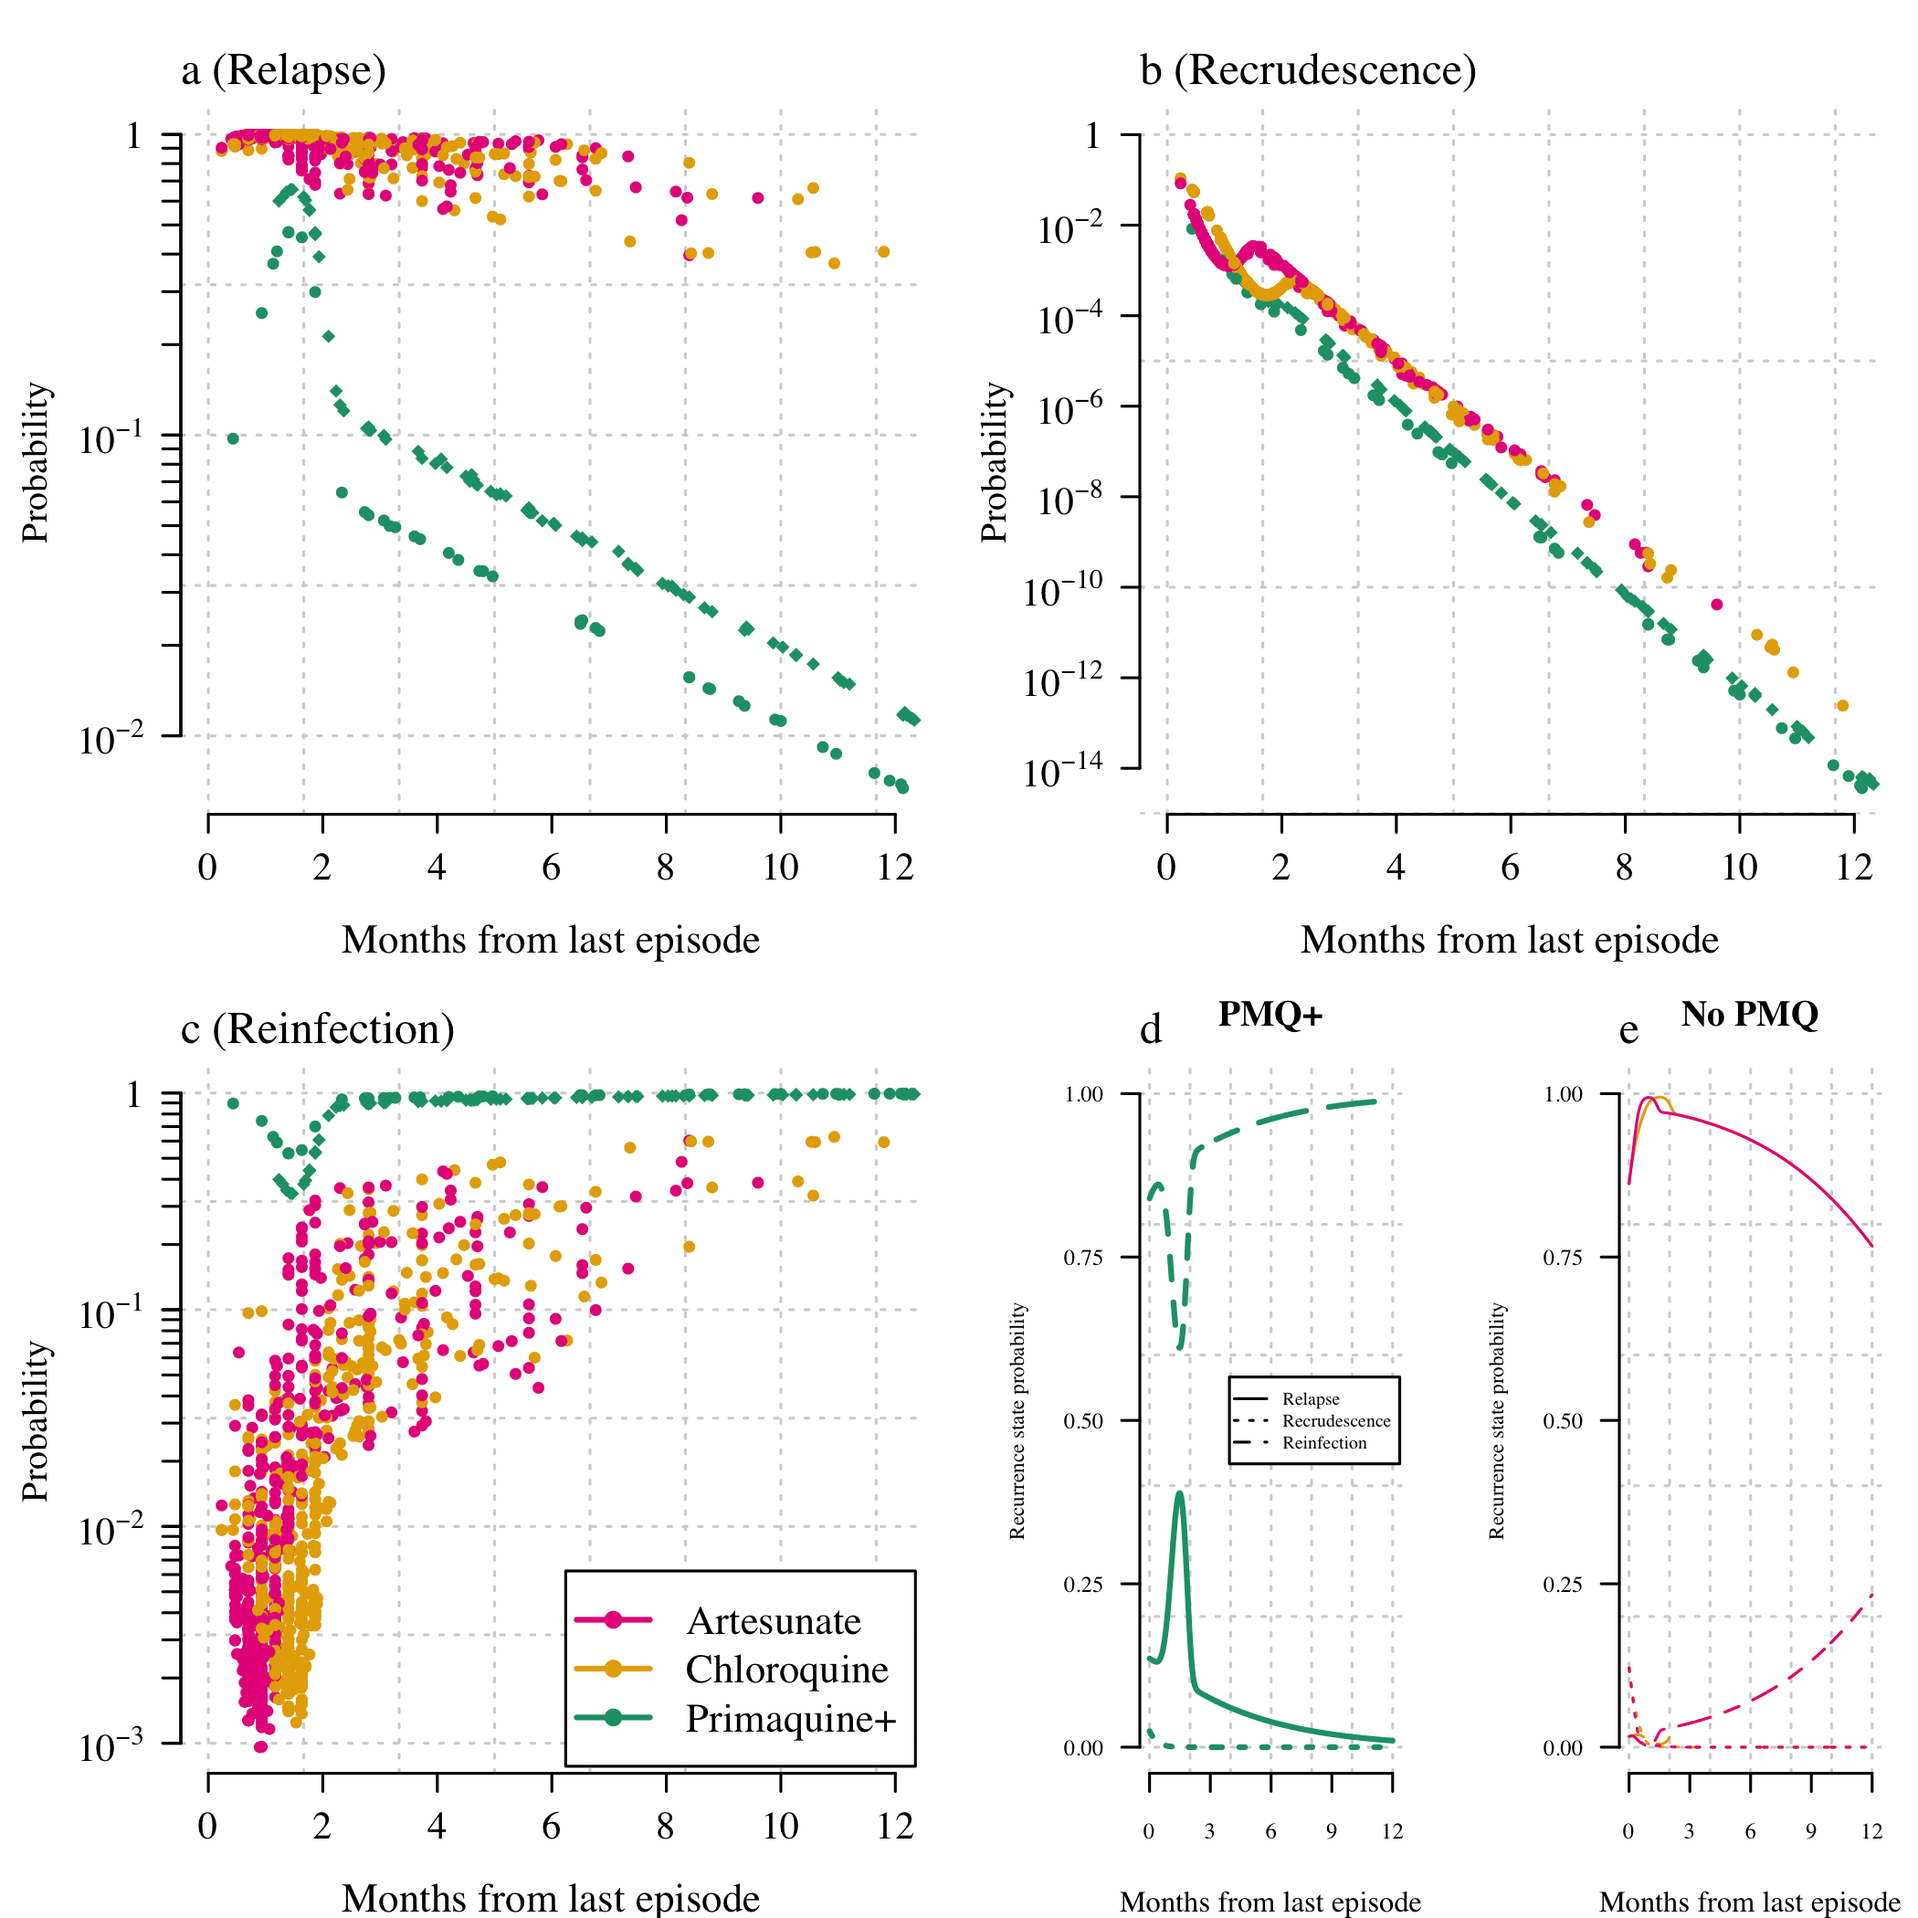
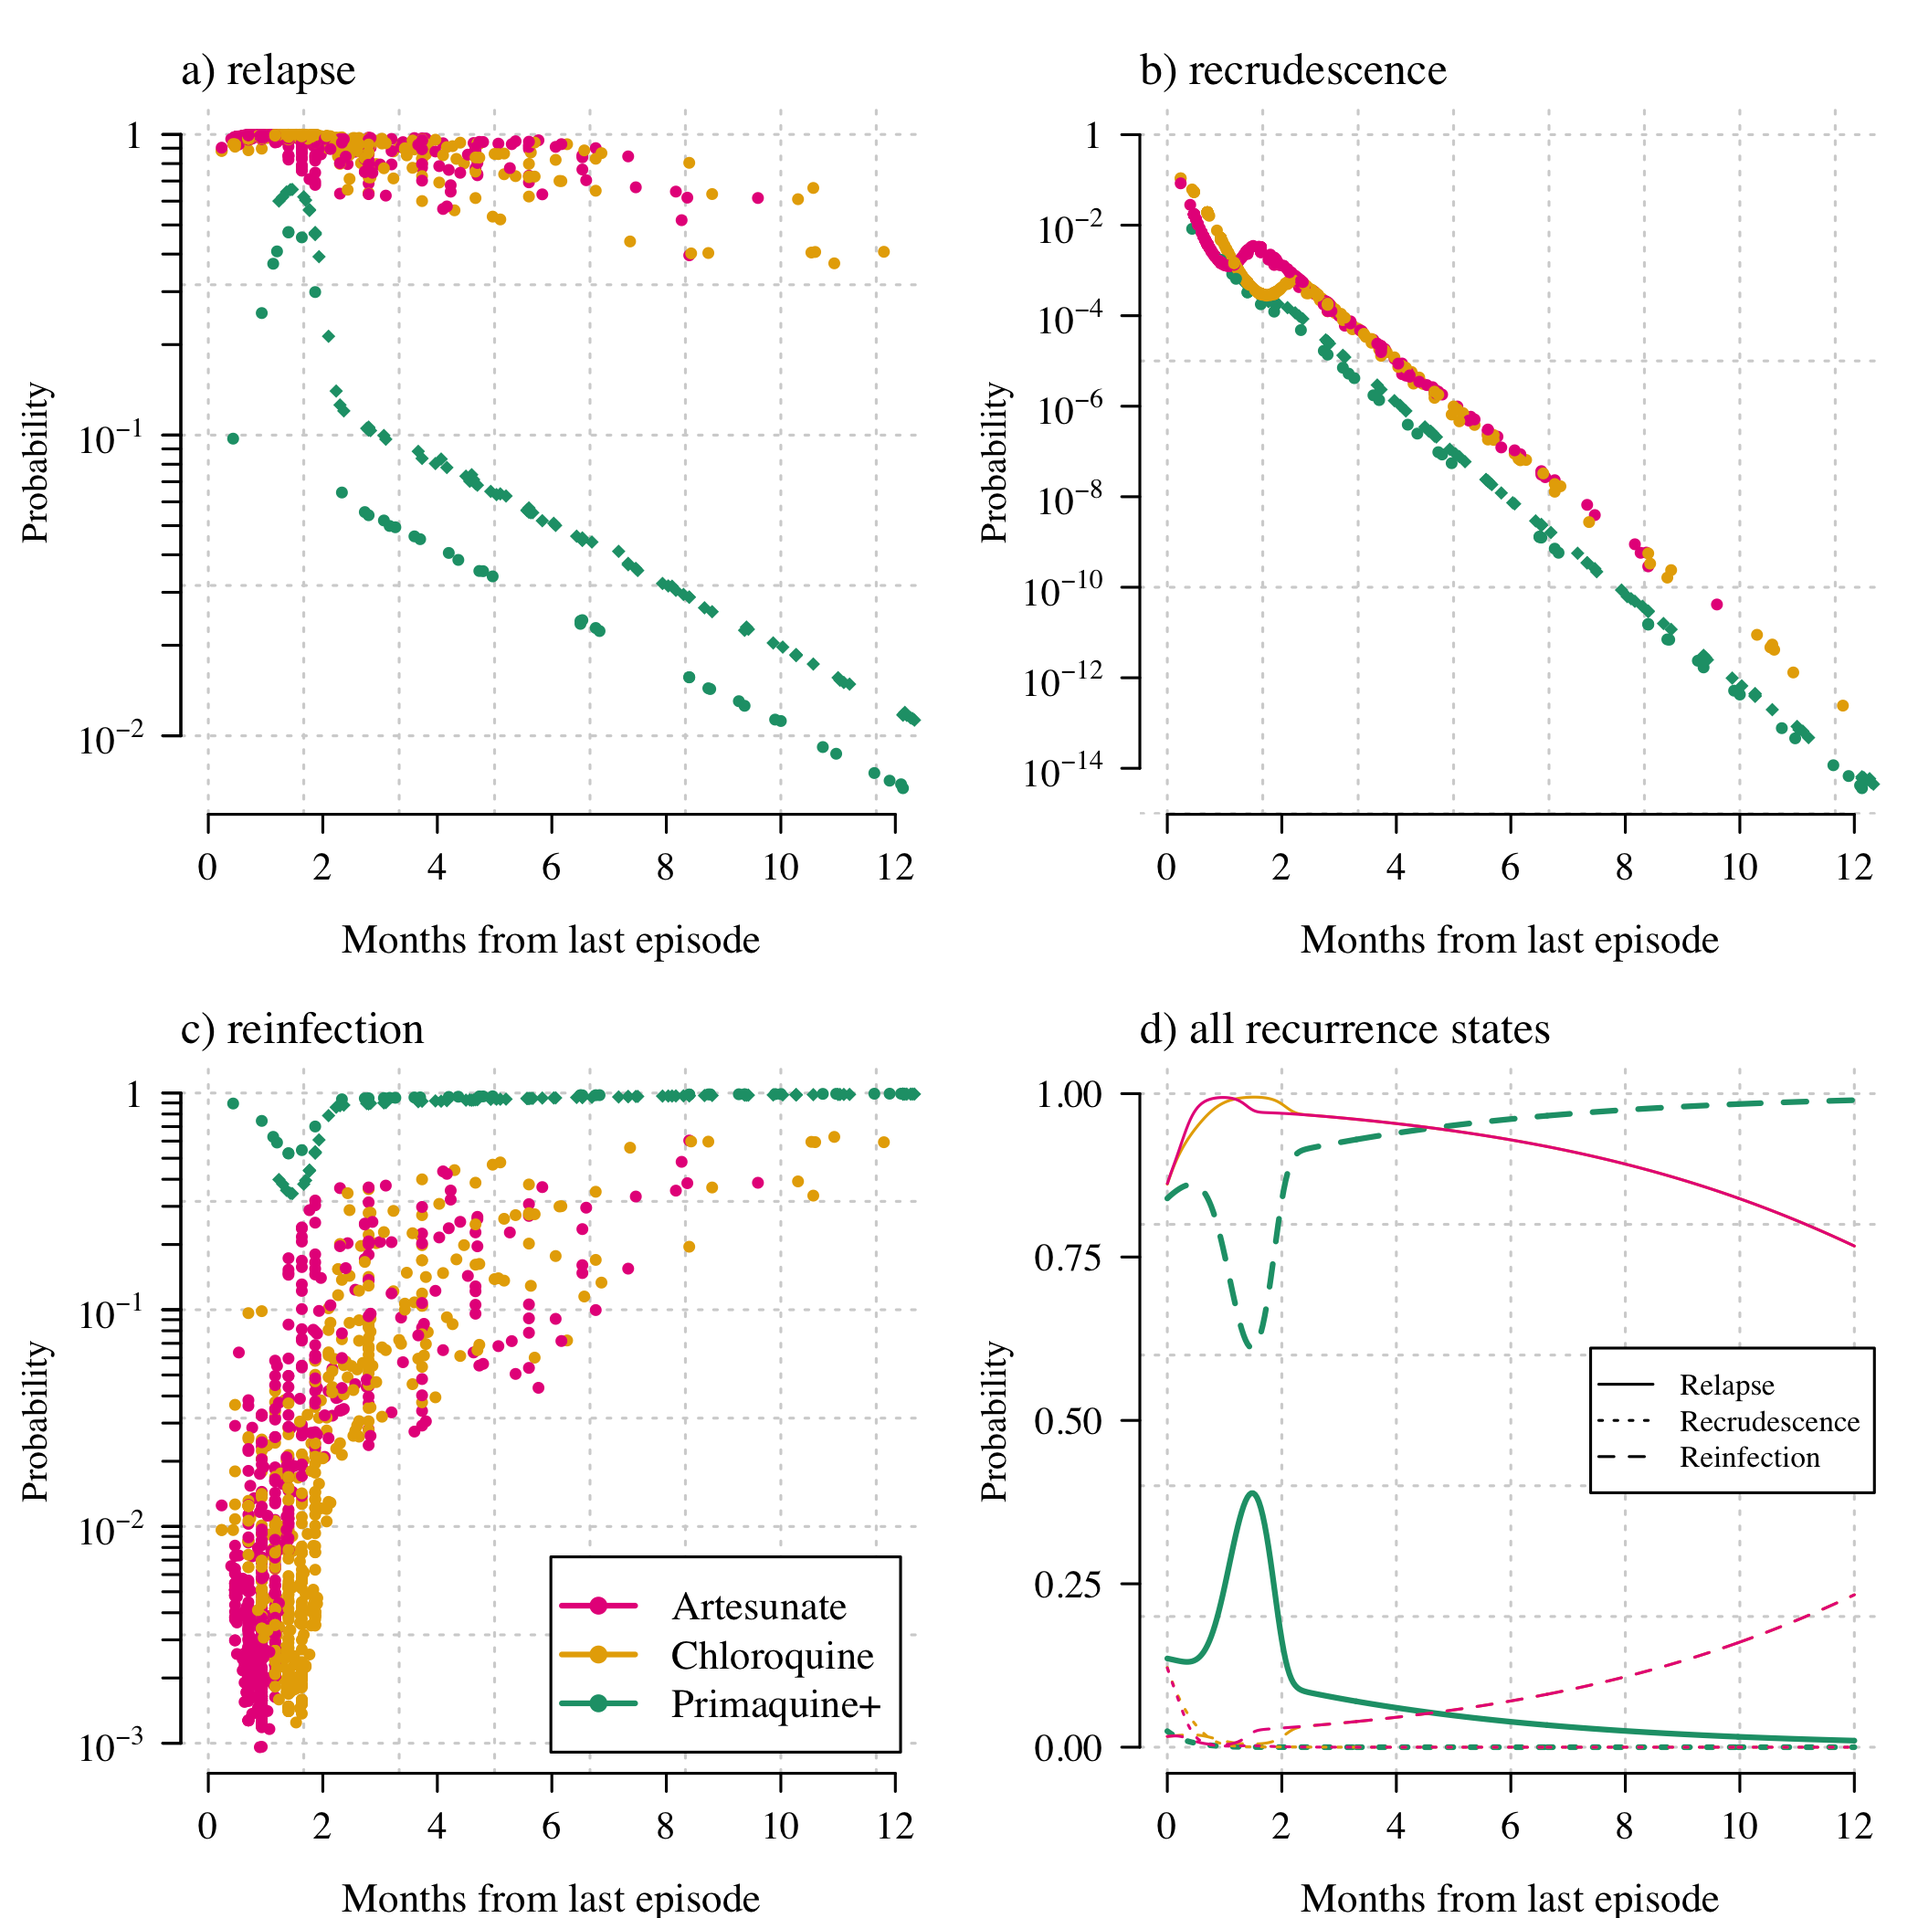
figure 1 changes

diff --git a/Timing_Model/TimingModelStan.md b/Timing_Model/TimingModelStan.md
@@ -1580,7 +1580,7 @@ Label_probability = function(drug,t, thetas){
 ```r
 labels2 = extract(mod2_Fit, 'prob_labels')$prob_labels
 
-layout(mat = matrix(data = c(1,1,2,2,1,1,2,2,3,3,4,5,3,3,4,5),byrow = T,nrow = 4))
+layout(mat = matrix(data = c(1,1,2,2,1,1,2,2,3,3,4,4,3,3,4,4),byrow = T,nrow = 4))
 par(las=1,bty='n', cex.lab=1.3, cex.axis=1.3, mar=c(4,5,3,1), family = 'serif')
 
 #****************************** Relapse **********************************
@@ -1594,7 +1594,7 @@ plot(Combined_Time_Data$Time_to_event[ind_plotting], log10(mean_labels_ReLap),
      cex=1,panel.first = grid(),
      ylab='',yaxt='n',
      xlab='', xlim=c(0,360))
-mtext(text='a (Relapse)', side = 3, adj = 0, line=0.5)
+mtext(text='a) relapse', side = 3, adj = 0, line=0.5)
 mtext(text = 'Probability',side = 2,line=3.5,cex=.8,las=3)
 axis(side=2, at = -2:0, c(expression(10^-2, 10^-1),1))
 axis(1, at = seq(0, 360, by=60), labels = seq(0, 360, by=60)/30)
@@ -1611,7 +1611,7 @@ plot(Combined_Time_Data$Time_to_event[ind_plotting], log10(mean_labels_ReCrud),
      cex=1,panel.first = grid(),
      ylab='',yaxt='n',
      xlab='', xlim=c(0,360), ylim= c(min(log10(mean_labels_ReCrud)),0))
-mtext(text='b (Recrudescence)', side = 3, adj = 0, line=0.5)
+mtext(text='b) recrudescence', side = 3, adj = 0, line=0.5)
 mtext(text = 'Months from last episode',side = 1,line=3,cex=.9)
 mtext(text = 'Probability',side = 2,line=3.5,cex=.8,las=3)
 axis(1, at = seq(0,12,by=2)*30, labels = seq(0,12,by=2))
@@ -1629,13 +1629,13 @@ plot(Combined_Time_Data$Time_to_event[ind_plotting], log10(mean_labels_Reinfecti
      xlab='', xlim=c(0,360))
 mtext(text = 'Probability',side = 2, las=3,line=3.5,cex=.8)
 mtext(text = 'Months from last episode',side = 1,line=3,cex=.9)
-mtext(text='c (Reinfection)', side = 3, adj = 0, line=0.5)
+mtext(text='c) reinfection', side = 3, adj = 0, line=0.5)
 axis(1, at = seq(0, 360, by=60), labels = seq(0, 360, by=60)/30)
 axis(side=2, at = c(-3,-2,-1,0), c(expression(10^-3, 10^-2, 10^-1),1))
 axis(2, at = log10(seq(.1,1,by=.1)), labels = NA)
 axis(2, at = log10(seq(.01,.1,by=.01)), labels = NA)
 axis(2, at = log10(seq(.001,.01,by=.001)), labels = NA)
-legend('bottomright',family('serif'), inset = 0.01, cex=1.35,
+legend('bottomright',family('serif'), inset = 0.03, cex=1.35,
        legend = c('Artesunate','Chloroquine','Primaquine+'),lty=1,
        col=drug_cols3,pch = 20, bty='o',lwd=2,bg='white')
 
@@ -1645,45 +1645,47 @@ Recurrence_cols_PMQ = brewer.pal(4,'Greens')[2:4]
 Recurrence_cols_noPMQ = brewer.pal(4,'Oranges')[2:4]
 
 LinesTypes = c(1,3,2)
-par(cex.lab=.7, cex.axis=.75)
+#par(cex.lab=.7, cex.axis=.75)
 t_points = seq(0,360,by=1)/30
 
 # Behaviour for PMQ
 PMQ_labels = Label_probability(drug = 'PMQ+',t = t_points*30, thetas = thetas_mod2)
 plot(t_points, PMQ_labels[,1], lwd=2, type='l', ylim = c(0,1),
-     main = 'PMQ+', col=drug_cols3['CHQ/PMQ'], panel.first = grid(), 
-     xlab='', ylab='Recurrence state probability',yaxt='n',xaxt='n',lty=LinesTypes[1])
+     main = '', col=drug_cols3['CHQ/PMQ'], panel.first = grid(), 
+     xlab='', ylab='',yaxt='n',xaxt='n',lty=LinesTypes[1])
+mtext(text = 'Probability',side = 2, las=3,line=3.5,cex=.8)
+mtext(text='d) all recurrence states', side = 3, adj = 0, line=0.5)
+mtext(text = 'Months from last episode',side = 1,line=3,cex=.9)
+
 lines(t_points, PMQ_labels[,2], lwd=2,col=drug_cols3['CHQ/PMQ'], lty=LinesTypes[2])
 lines(t_points, PMQ_labels[,3], lwd=2,col=drug_cols3['CHQ/PMQ'], lty=LinesTypes[3])
-mtext(text='d', side = 3, adj = 0, line=0.5)
-mtext(text = 'Months from last episode',side = 1,line=3,cex=.65)
+
 axis(2, at = c(0,.25,.5,.75,1))
-axis(1, at = c(0,3,6,9,12))
+axis(1, at = seq(0, 360, by=60)/30)
 
 legend('right',inset = 0.01,col='black',pch = NA, bty='o',
        legend = c('Relapse','Recrudescence', 'Reinfection'),
-       lwd=1,bg='white',lty=LinesTypes, cex=.6)
+       lwd=1,bg='white',lty=LinesTypes, cex=1)
 
 # Behaviour for CQ and AS
 CQ_labels = Label_probability(drug = 'CHQ',t = t_points*30, thetas = thetas_mod2)
 AS_labels = Label_probability(drug = 'AS',t = t_points*30, thetas = thetas_mod2)
-plot(t_points, CQ_labels[,1], lwd=1, type='l', ylim = c(0,1),
-     main = 'No PMQ', col=drug_cols3['CHQ'], xlab='',lty=LinesTypes[1],
-     panel.first = grid(), ylab = 'Recurrence state probability',xaxt='n',yaxt='n')
-mtext(text='e', side = 3, adj = 0, line=0.5)
-axis(2, at = c(0,.25,.5,.75,1))
-axis(1, at = c(0,3,6,9,12))
+lines(t_points, CQ_labels[,1], lwd=1, 
+      col=drug_cols3['CHQ'], lty=LinesTypes[1])
+
 lines(t_points, CQ_labels[,2], lwd=1,col=drug_cols3['CHQ'],lty=LinesTypes[2])
 lines(t_points, CQ_labels[,3], lwd=1,col=drug_cols3['CHQ'],lty=LinesTypes[3])
 
 lines(t_points, AS_labels[,1], lwd=1,col=drug_cols3['AS'],lty=LinesTypes[1])
 lines(t_points, AS_labels[,2], lwd=1,col=drug_cols3['AS'],lty=LinesTypes[2])
 lines(t_points, AS_labels[,3], lwd=1,col=drug_cols3['AS'],lty=LinesTypes[3])
-
-mtext(text = 'Months from last episode',side = 1,line=3,cex=.65)
 ```
 
 ![](TimingModelStan_files/figure-html/Model2FinalPlot-1.png)<!-- -->
+
+```r
+#mtext(text = 'Months from last episode',side = 1,line=3,cex=.65)
+```
 
 
 
